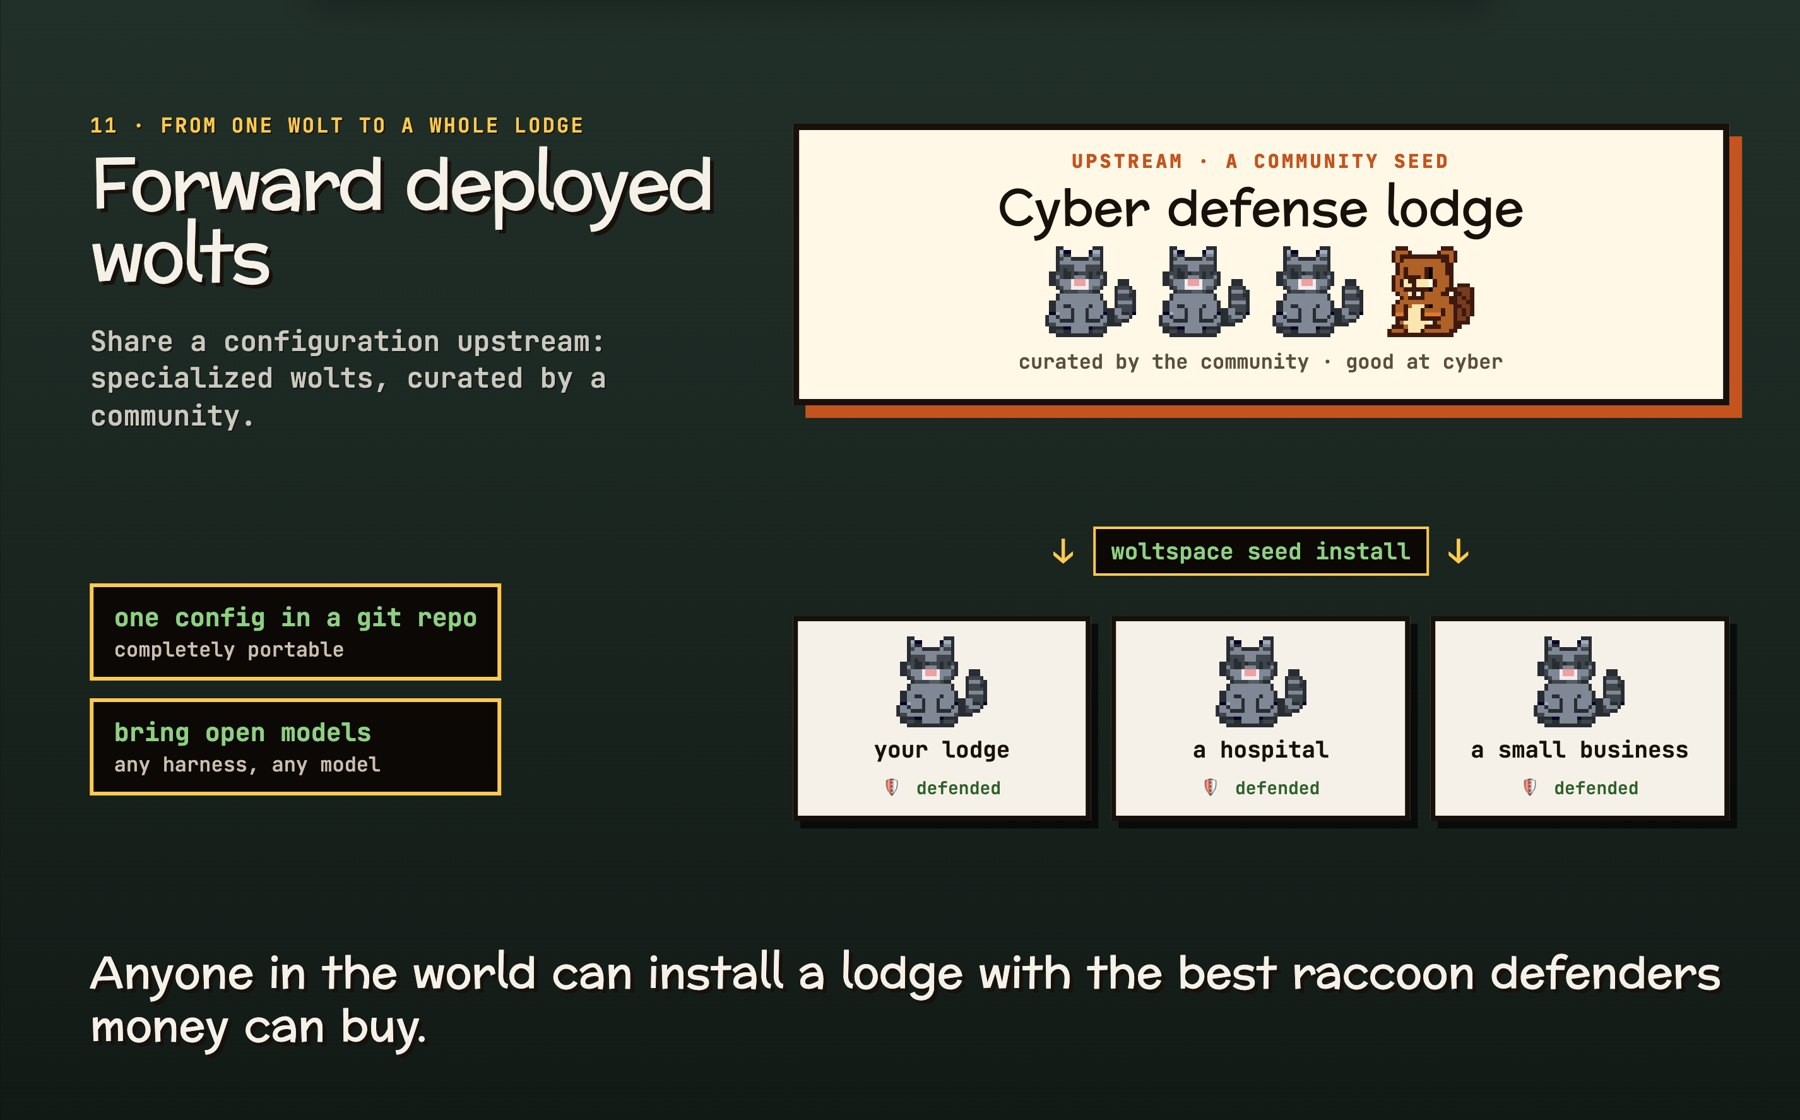
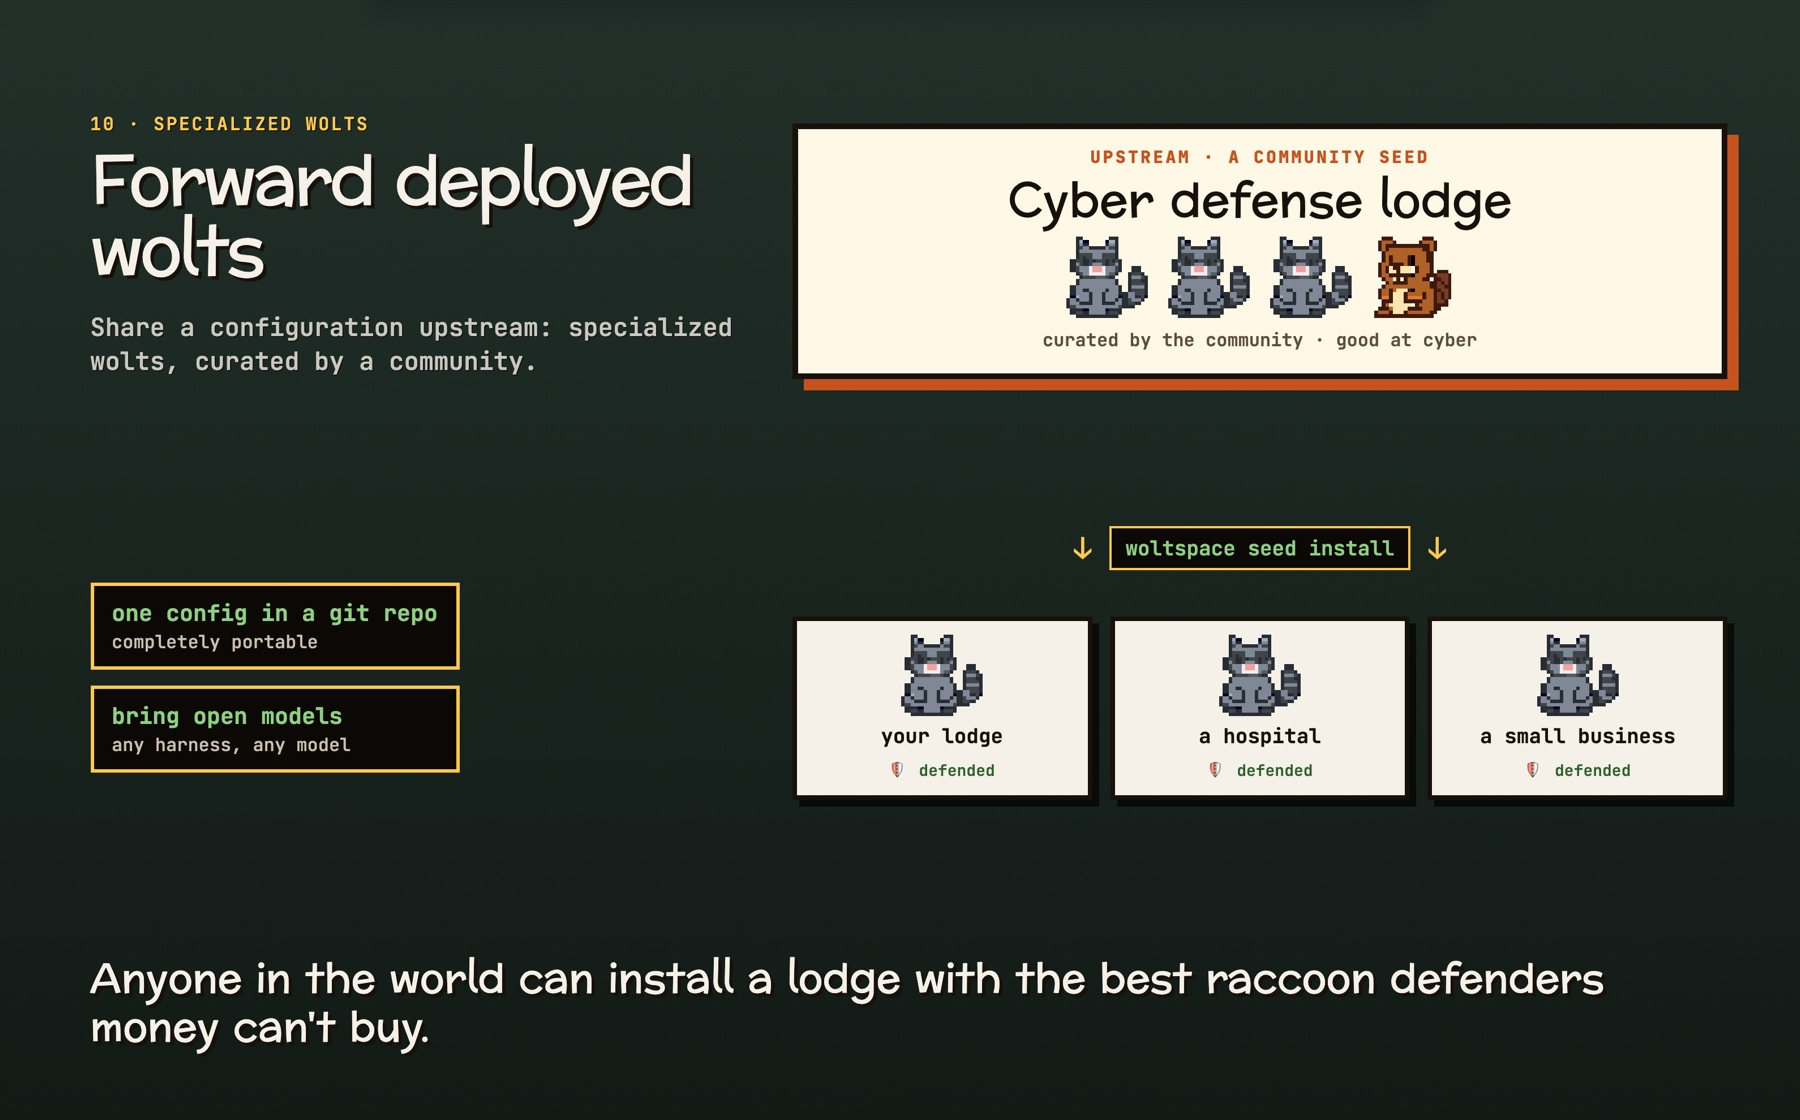
Blog: DMs are slow; raccoon defenders money can't buy; FDW slide image as presented

diff --git a/src/content/blog/the-future-is-multiplayer-multi-agent.md b/src/content/blog/the-future-is-multiplayer-multi-agent.md
@@ -20,7 +20,9 @@ Right now we're stuck in single-player mode: you talk to your agent, your agent 
 
 Woltspace believes that the future is multiplayer and multi-agent.
 
-Woltspace has already started with multi-agent, but I wouldn't say we're fully there yet. Through the [IWCL](/docs/orchestration/), wolts can freely message each other, and we basically just discovered that DMs are powerful.
+Woltspace has already started experimenting with multi-agent. Through the [IWCL](/docs/orchestration/), wolts can freely message each other, with full visibility and the ability to jump in any time. This means a Claude Code wolt can easily collaborate with a Codex wolt, and this works very well in practice today.
+
+But DMs are slow, and introduce bottlenecks and silos.
 
 ## What an agent swarm taught us
 
@@ -90,7 +92,7 @@ Once you have these trust boundaries, I can send my wolt into your infra, and vi
 
 This is also where sharing wolts becomes interesting. Woltspace designed wolts around the concept of infrastructure as code: any wolt's state is just a set of files and configs, which can easily be shared on GitHub and the like. So pulling, pushing and forking all apply to wolts, and we can do the exact same things with them. Anyone who has access to your repos can have access to your wolts, with the exact same controls we all already know and understand. It's completely portable.
 
-So you can share a configuration upstream: specialized wolts, curated by a community to be good at something, for example cyber. Anyone in the world can then install a lodge with the best raccoon defenders money can buy. We call them forward deployed wolts.
+So you can share a configuration upstream: specialized wolts, curated by a community to be good at something, for example cyber. Anyone in the world can then install a lodge with the best raccoon defenders money can't buy. We call them forward deployed wolts.
 
 <figure>
 <img src="/media/blog/slide-fdw.jpg" alt="Forward deployed wolts: a community seed upstream, the Cyber defense lodge with three raccoons and a beaver, installs with woltspace seed install into your lodge, a hospital and a small business, each defended." width="1800" height="1120" loading="lazy">
